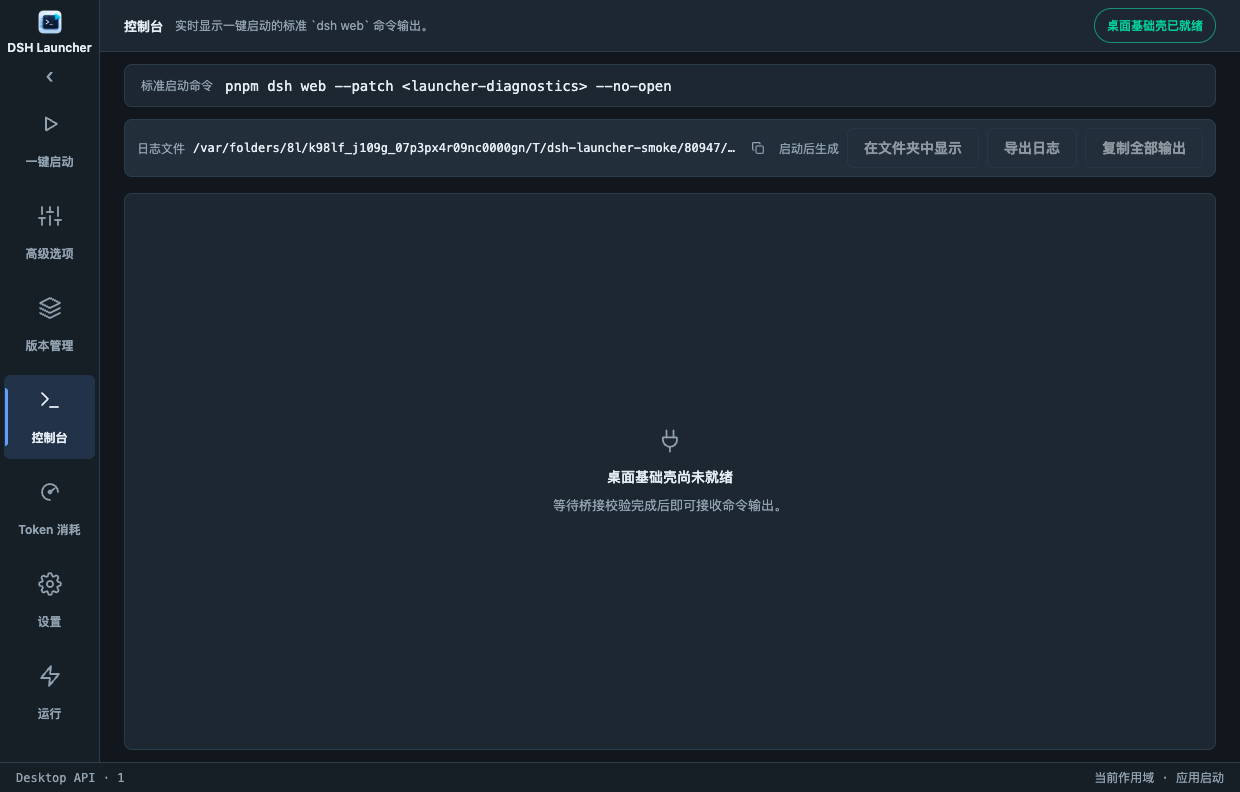
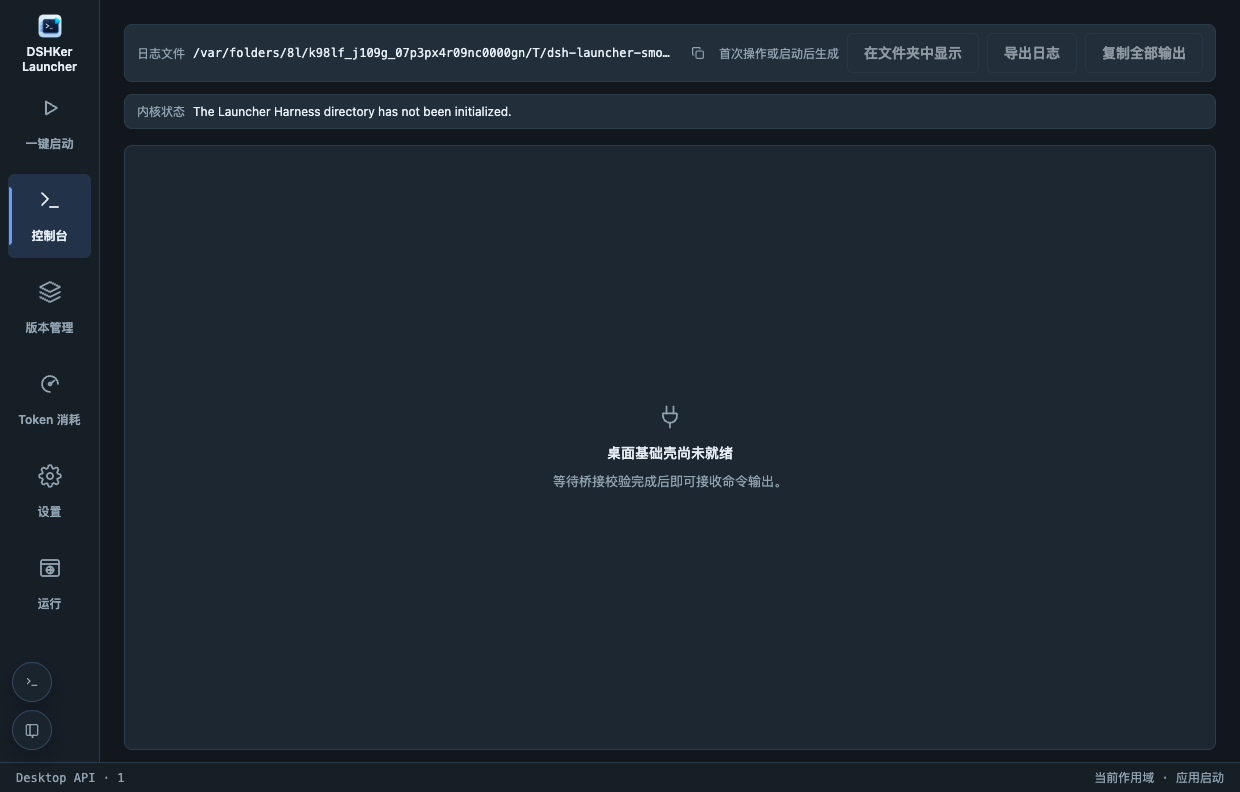
docs: refresh README features and v0.1.10 screenshots

diff --git a/README.md b/README.md
@@ -2,19 +2,20 @@
 
 [简体中文](README.zh-CN.md) · [Usage guide](docs/usage.en.md) · [Product screenshots](docs/screenshots.md) · [Latest release](https://github.com/ankye/dshker/releases/latest) · [GitHub Actions builds](https://github.com/ankye/dshker/actions/workflows/package.yml)
 
-DSHKer Launcher is a desktop shell for running [DeepSeek Harness](https://github.com/deepseek-ai/deepseek-harness) on macOS and Windows. It prepares a Launcher-owned Harness checkout, lets you inspect and switch Git commits, manages DSH extensions through the ordinary DSH CLI, starts DSH Web, and keeps the launch log in one place.
+## Core features
+
+- **One-click DSH Web** — prepare the bundled Harness seed, select a core commit, and start the standard DSH Web command.
+- **Version control** — refresh remote history, inspect commits, and explicitly switch the managed DSH core.
+- **Extension management** — see installed extensions and browse the curated Awesome DSH Plugin catalog.
+- **Console and runtime tabs** — follow exact process output, stop the managed process, and open the URL it actually announces.
+- **Token usage** — read session and daily model totals from native DSH logs without writing native DSH data.
+- **Safe ownership boundaries** — keep Harness, plugins, presets, settings, and native `~/.dsh` data in their declared roots without silently replacing them.
+
+DSHKer Launcher is a desktop shell for running [DeepSeek Harness](https://github.com/deepseek-ai/deepseek-harness) on macOS and Windows.
 
 The Launcher never replaces, moves, or resets native DSH state. Your existing `$DSH_HOME` or `~/.dsh` remains owned by DeepSeek Harness and is reused when you change the selected core version.
 
 ![DSHKer Launcher launch screen](docs/assets/screenshots/launch.png)
-
-## What you can do
-
-- Start a packaged Harness seed automatically when `~/.dshlauncher/harness` is empty.
-- Browse the fetched commit history, refresh a remote, and explicitly switch the DSH core version.
-- See installed DSH extensions and browse the curated Awesome DSH Plugin catalog.
-- Start and stop the standard DSH Web command, inspect real-time output, and open the announced local Web page in tabs.
-- Read token usage from DSH session logs without writing native DSH data.
 
 ![Version management](docs/assets/screenshots/versions.png)
 

diff --git a/README.zh-CN.md b/README.zh-CN.md
@@ -2,19 +2,20 @@
 
 [English](README.md) · [使用说明](docs/usage.zh-CN.md) · [产品截图](docs/screenshots.md) · [最新版本](https://github.com/ankye/dshker/releases/latest) · [GitHub Actions 构建](https://github.com/ankye/dshker/actions/workflows/package.yml)
 
-DSHKer Launcher 是面向 macOS 与 Windows 的 [DeepSeek Harness](https://github.com/deepseek-ai/deepseek-harness) 桌面启动器。它负责准备 Launcher 自己管理的 Harness 内核目录、查看与切换 Git 提交、通过 DSH 原生命令管理扩展、启动 DSH Web，并将启动日志集中展示。
+## 核心功能
+
+- **一键启动 DSH Web**：准备内置 Harness 初始版本、选择内核提交，并启动标准 DSH Web 命令。
+- **内核版本管理**：刷新远端历史、查看提交，并明确切换 Launcher 管理的 DSH 内核。
+- **扩展管理**：查看已安装扩展，并浏览 Awesome DSH Plugin 精选目录。
+- **控制台与运行标签页**：查看精确进程输出、终止受管进程，并打开进程实际公布的地址。
+- **Token 消耗汇总**：只读汇总原生 DSH 会话与每日模型数据，不写入原生 DSH 数据。
+- **清晰的数据边界**：Harness、插件、预设、设置与原生 `~/.dsh` 数据分别保存在声明目录，应用不会静默替换它们。
+
+DSHKer Launcher 是面向 macOS 与 Windows 的 [DeepSeek Harness](https://github.com/deepseek-ai/deepseek-harness) 桌面启动器。
 
 Launcher 不会替换、迁移或重置 DSH 原生数据。你已有的 `$DSH_HOME` 或 `~/.dsh` 始终归 DeepSeek Harness 所有；切换内核版本时会继续沿用。
 
 ![DSHKer Launcher 启动页](docs/assets/screenshots/launch.png)
-
-## 可以做什么
-
-- 当 `~/.dshlauncher/harness` 为空时，自动准备安装包内置的 Harness 初始版本。
-- 查看远端提交历史、刷新版本列表，并明确切换 DSH 内核提交。
-- 查看已安装 DSH 扩展，并浏览 Awesome DSH Plugin 的精选目录。
-- 启动和终止标准 DSH Web 命令，实时查看输出，并在多个标签页打开进程实际公布的本地页面。
-- 只读汇总 DSH 会话日志中的 Token 消耗，不写入原生 DSH 数据。
 
 ![版本管理](docs/assets/screenshots/versions.png)
 

diff --git a/docs/screenshots.md b/docs/screenshots.md
@@ -1,8 +1,8 @@
 # Product screenshots / 产品截图
 
-These images are captured by the macOS packaged-app smoke run. They are not browser or development-server screenshots. The smoke environment intentionally starts without a user-managed Harness checkout, so the Launch and Version management pages demonstrate their first-run and empty states.
+These images are captured from the v0.1.10 macOS packaged-app smoke run. They are not browser or development-server screenshots. The smoke environment intentionally starts without a user-managed Harness checkout, so the Launch and Version management pages demonstrate their first-run and empty states.
 
-以下图片由 macOS 安装包的烟测直接截取，不是浏览器或开发服务器截图。烟测环境不会读取用户的 Harness 目录，因此“启动”和“版本管理”页面展示的是首启与空状态。
+以下图片由 v0.1.10 macOS 安装包的烟测直接截取，不是浏览器或开发服务器截图。烟测环境不会读取用户的 Harness 目录，因此“启动”和“版本管理”页面展示的是首启与空状态。
 
 ## Launch / 启动
 
@@ -11,10 +11,6 @@ These images are captured by the macOS packaged-app smoke run. They are not brow
 ## Version management / 版本管理
 
 ![Version management](assets/screenshots/versions.png)
-
-## Advanced options / 高级选项
-
-![Advanced options](assets/screenshots/advanced.png)
 
 ## Console / 控制台
 
